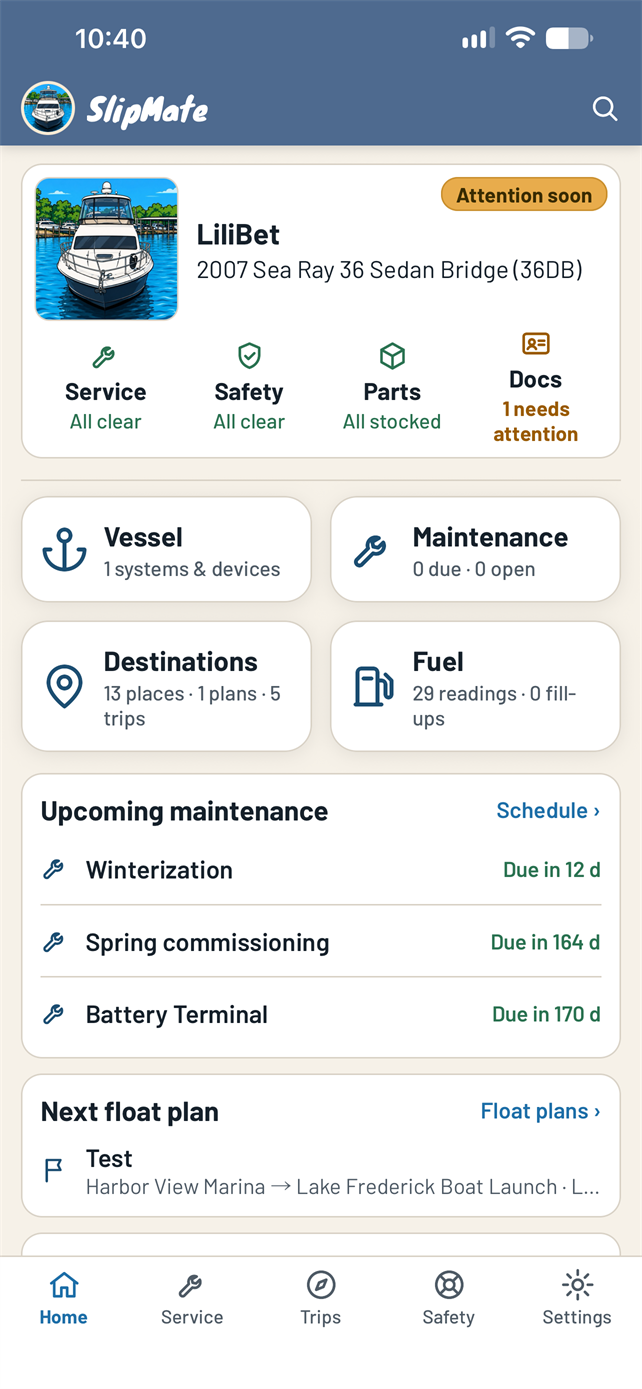
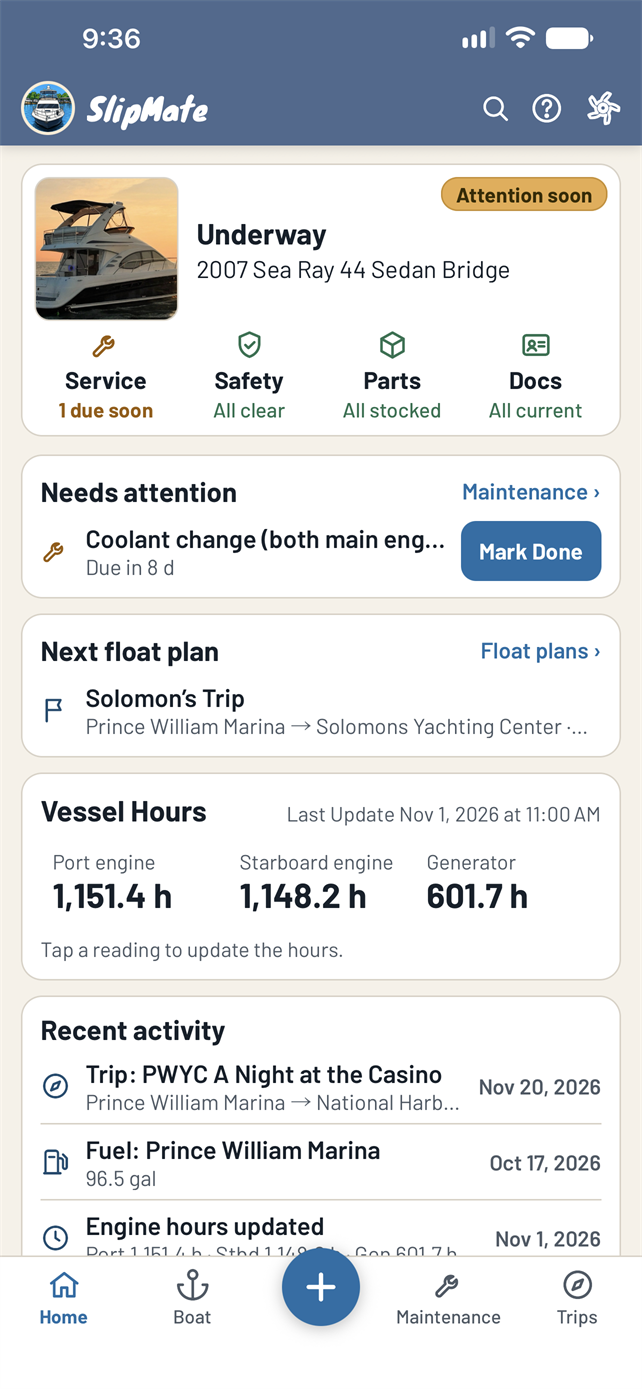
App Tour: rewritten for the new layout, with 12 new screenshots
Home, Boat, Maintenance and Trips sections match the current app
(Quick Log, ? help, Open work, Required Parts, Places). Screenshots
retaken on the phone; contact details covered in the float plan shot.

diff --git a/site/tour.html b/site/tour.html
@@ -267,7 +267,7 @@ footer .social svg .dot,footer .social svg .fill{fill:currentColor;stroke:none}
       <li><strong>Docs:</strong> insurance, registration and licenses that have expired or expire within 30 days.</li>
     </ul>
     <p>Green means all clear, yellow means coming up soon, and red means it needs you now. The verdict at the top sums it up: <strong>Ready</strong>, <strong>Attention Soon</strong> or <strong>Action Needed</strong>. Tap any signal to go straight to the items behind it, with the problems listed first.</p>
-    <p>It sits at the top of the Home screen and the Trips screen, updates itself as you log services, use parts and add new dates, and works with no signal. If you like, your phone can tell you when a signal turns yellow or red.</p>
+    <p>It sits in your boat card on Home and the Boat tab, and above your float plans and trip log, updates itself as you log services, use parts and add new dates, and works with no signal. If you like, your phone can tell you when a signal turns yellow or red.</p>
   </div>
   <figure class="readiness-demo">
     <div class="card ready" role="img" aria-label="Example: Boat Readiness: Action Needed. Service 2 due soon, Safety 1 expired, Parts all stocked, Docs all current.">
@@ -286,12 +286,13 @@ footer .social svg .dot,footer .social svg .fill{fill:currentColor;stroke:none}
 <section class="tour-sec" id="home">
   <div>
     <h2>Home: Everything at a glance</h2>
-    <p>Open SlipMate and <a href="#readiness">Boat Readiness</a> is right at the top, with the rest of your boat a tap away.</p>
+    <p>Open SlipMate and your boat card, with <a href="#readiness">Boat Readiness</a>, is right at the top. Below it is what needs doing today.</p>
     <ul>
-      <li>Your boat’s photo, name, year, make, model, HIN and registration number on one card.</li>
-      <li><strong>Upcoming Maintenance</strong>, your <strong>Next Float Plan</strong> and <strong>Recent Activity</strong> (last trip, last fill-up, last hours update) at a glance.</li>
-      <li>Four areas, Vessel, Maintenance, Destinations and Fuel, each with a live summary and a red count when something needs you.</li>
-      <li>Search everything on the boat from the magnifying glass: specs, engines, tasks, parts, logs and destinations.</li>
+      <li><strong>Needs Attention:</strong> services that are overdue or due soon, each with <strong>Mark Done</strong>. Nothing due? It says <strong>All Caught Up</strong>.</li>
+      <li>Your <strong>Next Float Plan</strong>, your engine hours (tap to update them) and <strong>Recent Activity</strong>.</li>
+      <li>Five buttons along the bottom: <strong>Home</strong>, <strong>Boat</strong>, <strong>+</strong>, <strong>Maintenance</strong> and <strong>Trips</strong>.</li>
+      <li>The <strong>+</strong> button is Quick Log: log fuel, update hours, log a service, note an open work item, add a receipt or a manual, start a float plan or log a trip, in two taps from anywhere.</li>
+      <li>Search everything on the boat from the magnifying glass, and tap the <strong>?</strong> on any page for help with that page.</li>
     </ul>
   </div>
   <figure class="shot"><img src="screenshots/tour-home.png" alt="The Home screen with the Boat Readiness card" loading="lazy"><figcaption>The Home screen with the Boat Readiness card</figcaption></figure>
@@ -304,7 +305,7 @@ footer .social svg .dot,footer .social svg .fill{fill:currentColor;stroke:none}
     <ul>
       <li>Your changes sync to your account automatically when you’re back in range.</li>
       <li>Sign in on a new phone and everything comes down again.</li>
-      <li>Reminders, reports and the Places Near Me list all work offline too.</li>
+      <li>Reminders, reports, the Places Near Me list and the help behind each page’s <strong>?</strong> all work offline too.</li>
       <li>Easy to read in bright sun or at night: choose <strong>Light</strong>, <strong>Dark</strong> or <strong>Auto</strong> (follows your phone’s setting) in Settings.</li>
     </ul>
   </div>
@@ -313,32 +314,31 @@ footer .social svg .dot,footer .social svg .fill{fill:currentColor;stroke:none}
 
 <section class="tour-sec" id="setup">
   <div>
-    <h2>Boat Setup builds your schedule for you</h2>
-    <p>Starting from a blank screen is hard. Boat Setup asks a few questions and gives you a maintenance schedule to start from.</p>
+    <h2>Set up in three short steps</h2>
+    <p>Starting from a blank screen is hard. Boat Setup takes three short steps, and everything but your boat’s make and model can wait.</p>
     <ul>
-      <li>Search hundreds of boat makes, then pick your model.</li>
-      <li>Tell it your water (salt, brackish or fresh) and your boating season, and it times Winterization and Spring Commissioning to match.</li>
-      <li>Pick your engines from a catalog of common marine engines, plus your generator, dinghy engine or kicker.</li>
-      <li>Answer yes or no for each system (AC, generator, thrusters, windlass and more) and review the services that go with it. Keep what you want, set your own intervals, skip the rest.</li>
+      <li><strong>Your Boat:</strong> search hundreds of boat makes and pick your model. Add the year, HIN, registration, your water and your season, which times Winterization and Spring Commissioning.</li>
+      <li><strong>Your Engines:</strong> if SlipMate knows your boat, it asks <strong>Are These Your Engines?</strong> Otherwise pick each one from a catalog of common marine engines, plus your dinghy engine or kicker and each engine’s transmission or drive.</li>
+      <li><strong>Bring In Your Data:</strong> fill your schedule, parts and gear the quick way. Import the spreadsheet you already keep, or let AI read a work order or your engine’s manual and suggest the services and parts.</li>
     </ul>
-    <p class="muted small">Suggested services and intervals are starting points. Always follow your manufacturer’s manual.</p>
+    <p class="muted small">AI suggestions are starting points you accept one by one. Always follow your manufacturer’s manual.</p>
   </div>
-  <figure class="shot"><img src="screenshots/tour-setup.png" alt="Boat Setup: choosing the services to keep" loading="lazy"><figcaption>Boat Setup: choosing the services to keep</figcaption></figure>
+  <figure class="shot"><img src="screenshots/tour-setup.png" alt="Boat Setup: your engines" loading="lazy"><figcaption>Boat Setup: your engines</figcaption></figure>
 </section>
 
 <section class="tour-sec flip" id="vessel">
   <div>
-    <h2>Your vessel, fully documented</h2>
-    <p>The spec sheet you’re always hunting for, always with you.</p>
+    <h2>Your boat, fully documented</h2>
+    <p>The spec sheet you’re always hunting for, always with you, on the <strong>Boat</strong> tab.</p>
     <ul>
-      <li><strong>Details:</strong> make and model, years, hull, HIN, registration, MMSI numbers, home port, LOA, beam, draft and more.</li>
-      <li><strong>Capacities:</strong> air draft, fuel, fresh water, holding, grey water, battery banks, anchor and rode, max persons.</li>
-      <li><strong>Engines:</strong> every engine and generator with serial numbers, horsepower, transmission, gear ratio and propeller.</li>
+      <li><strong>Details</strong> and <strong>Capacities:</strong> make and model, hull, HIN, registration, MMSI numbers, LOA, beam, draft, tanks, battery banks, anchor and rode. Or photograph your boat’s spec sheet and let AI fill them in.</li>
+      <li><strong>Engines</strong> and <strong>Drives:</strong> every engine, generator and transmission with serial numbers, horsepower, gear ratio and propeller. Repowered? The old engine keeps its history.</li>
       <li><strong>Systems</strong> and <strong>Electronics:</strong> what’s aboard, where it is, serial numbers, firmware versions and network IDs.</li>
+      <li><strong>Manuals:</strong> owner’s and service manuals as files, photos or links, ready offline. A document icon marks every item that has one, and AI can read a manual for its service intervals and part numbers.</li>
       <li><strong>Docs:</strong> insurance, registration, captain’s license and inspections, with a photo or PDF of each and the date it expires.</li>
     </ul>
   </div>
-  <figure class="shot"><img src="screenshots/tour-vessel.png" alt="Vessel details and capacities" loading="lazy"><figcaption>Vessel details and capacities</figcaption></figure>
+  <figure class="shot"><img src="screenshots/tour-vessel.png" alt="The Boat tab" loading="lazy"><figcaption>The Boat tab</figcaption></figure>
 </section>
 
 <section class="tour-sec" id="hours">
@@ -350,7 +350,7 @@ footer .social svg .dot,footer .social svg .fill{fill:currentColor;stroke:none}
       <li>on <strong>all propulsion engines</strong>, using whichever is highest,</li>
       <li>or by <strong>calendar only</strong>, every so many months.</li>
     </ul>
-    <p>A task can have both a months and an hours interval, so whichever comes first is what’s due. Generators, dinghy engines and kickers keep their own hours and their own services. One shared task can be split into a separate task for each engine with a tap.</p>
+    <p>A task can have both a months and an hours interval, so whichever comes first is what’s due. Generators, dinghy engines and kickers keep their own hours and their own services. One shared task can be split into a separate task for each engine with a tap. Guessed your hours when you started and the meter really shows less? Update Hours lets the real reading take over.</p>
   </div>
   <figure class="shot"><img src="screenshots/tour-hours.png" alt="Vessel Hours and the Update Hours box" loading="lazy"><figcaption>Vessel Hours and the Update Hours box</figcaption></figure>
 </section>
@@ -359,11 +359,11 @@ footer .social svg .dot,footer .social svg .fill{fill:currentColor;stroke:none}
   <div>
     <h2>Maintenance that keeps up with you</h2>
     <ul>
-      <li><strong>Scheduled:</strong> your services in the order they come due, overdue first, with next due and last completed on each card.</li>
+      <li><strong>Due:</strong> your services in the order they come due, overdue first, with next due and last completed on each card.</li>
       <li><strong>Mark Done</strong> logs a service as completed today at the current engine hours, and starts the next cycle.</li>
-      <li><strong>Open:</strong> the jobs you’ve found but not fixed yet, with how long each has been open.</li>
-      <li><strong>Completed:</strong> a dated service history with who did the work, notes, photos and the hours at service.</li>
-      <li><strong>Manuals:</strong> owner’s manuals, parts lists and surveys as files, photos or links, ready offline.</li>
+      <li><strong>Open:</strong> projects, and the things you notice that need fixing, outside your regular services.</li>
+      <li><strong>History:</strong> a dated service record with who did the work, notes, photos and the hours at service. Snap a receipt or work order and AI fills in the entry for you to check.</li>
+      <li><strong>Parts:</strong> the spares you keep aboard (see below).</li>
       <li>Optional phone reminders when a service comes due, even with SlipMate closed.</li>
     </ul>
   </div>
@@ -375,9 +375,10 @@ footer .social svg .dot,footer .social svg .fill{fill:currentColor;stroke:none}
     <h2>Never run out of the part you need</h2>
     <p>Keep a list of spare parts on hand: part number, where it’s stored, supplier, specification and a link to the product page. Set how many you want to keep aboard and SlipMate watches the count.</p>
     <ul>
+      <li>The list opens on the parts you want aboard, with any running short at the top.</li>
       <li>Parts that are low or out turn the Parts signal yellow or red on Home.</li>
       <li>Filter by component (Engine/s, Generator, Bilge Pumps and Float Switches, and more).</li>
-      <li>Boat Setup can add the usual parts for the services you keep.</li>
+      <li>Read a manual or a receipt with AI and the part numbers come in for you.</li>
     </ul>
   </div>
   <figure class="shot"><img src="screenshots/tour-parts.png" alt="Parts on hand with quantities and part numbers" loading="lazy"><figcaption>Parts on hand with quantities and part numbers</figcaption></figure>
@@ -413,14 +414,14 @@ footer .social svg .dot,footer .social svg .fill{fill:currentColor;stroke:none}
 
 <section class="tour-sec flip" id="destinations">
   <div>
-    <h2>Destinations and trips</h2>
+    <h2>Places and trips</h2>
     <ul>
-      <li><strong>Destinations:</strong> your marinas, anchorages, fuel docks and favorite waterfront restaurants, with position, VHF channel, depth, hours, dockage, rates, approach notes, a marina map and your own notes (slip number, dock hand, tips). Star your favorites.</li>
-      <li><strong>Find Places Near Me:</strong> download your state once and see nearby marinas, fuel docks, anchorages and ramps, nearest first, even with no signal. Add the ones you like to your destinations.</li>
+      <li><strong>Places:</strong> your marinas, anchorages, fuel docks and favorite waterfront restaurants, with position, VHF channel, depth, hours, dockage, rates, approach notes, a marina map and your own notes (slip number, dock hand, tips). Star your favorites.</li>
+      <li><strong>Find Places Near Me:</strong> download your state once and see nearby marinas, fuel docks, anchorages and ramps, nearest first, even with no signal. Add the ones you like to your places.</li>
       <li><strong>Trip log:</strong> where you went, when, how far, fuel added, who was aboard and the engine hours when you got back.</li>
     </ul>
   </div>
-  <figure class="shot"><img src="screenshots/tour-destinations.png" alt="Saved destinations and Find Places Near Me" loading="lazy"><figcaption>Saved destinations and Find Places Near Me</figcaption></figure>
+  <figure class="shot"><img src="screenshots/tour-destinations.png" alt="Saved places and Find Places Near Me" loading="lazy"><figcaption>Saved places and Find Places Near Me</figcaption></figure>
 </section>
 
 <section class="tour-sec" id="fuel">

diff --git a/pages/tour.html b/pages/tour.html
@@ -27,7 +27,7 @@
       <li><strong>Docs:</strong> insurance, registration and licenses that have expired or expire within 30 days.</li>
     </ul>
     <p>Green means all clear, yellow means coming up soon, and red means it needs you now. The verdict at the top sums it up: <strong>Ready</strong>, <strong>Attention Soon</strong> or <strong>Action Needed</strong>. Tap any signal to go straight to the items behind it, with the problems listed first.</p>
-    <p>It sits at the top of the Home screen and the Trips screen, updates itself as you log services, use parts and add new dates, and works with no signal. If you like, your phone can tell you when a signal turns yellow or red.</p>
+    <p>It sits in your boat card on Home and the Boat tab, and above your float plans and trip log, updates itself as you log services, use parts and add new dates, and works with no signal. If you like, your phone can tell you when a signal turns yellow or red.</p>
   </div>
   <figure class="readiness-demo">
     <div class="card ready" role="img" aria-label="Example: Boat Readiness: Action Needed. Service 2 due soon, Safety 1 expired, Parts all stocked, Docs all current.">
@@ -46,12 +46,13 @@
 <section class="tour-sec" id="home">
   <div>
     <h2>Home: Everything at a glance</h2>
-    <p>Open SlipMate and <a href="#readiness">Boat Readiness</a> is right at the top, with the rest of your boat a tap away.</p>
+    <p>Open SlipMate and your boat card, with <a href="#readiness">Boat Readiness</a>, is right at the top. Below it is what needs doing today.</p>
     <ul>
-      <li>Your boat’s photo, name, year, make, model, HIN and registration number on one card.</li>
-      <li><strong>Upcoming Maintenance</strong>, your <strong>Next Float Plan</strong> and <strong>Recent Activity</strong> (last trip, last fill-up, last hours update) at a glance.</li>
-      <li>Four areas, Vessel, Maintenance, Destinations and Fuel, each with a live summary and a red count when something needs you.</li>
-      <li>Search everything on the boat from the magnifying glass: specs, engines, tasks, parts, logs and destinations.</li>
+      <li><strong>Needs Attention:</strong> services that are overdue or due soon, each with <strong>Mark Done</strong>. Nothing due? It says <strong>All Caught Up</strong>.</li>
+      <li>Your <strong>Next Float Plan</strong>, your engine hours (tap to update them) and <strong>Recent Activity</strong>.</li>
+      <li>Five buttons along the bottom: <strong>Home</strong>, <strong>Boat</strong>, <strong>+</strong>, <strong>Maintenance</strong> and <strong>Trips</strong>.</li>
+      <li>The <strong>+</strong> button is Quick Log: log fuel, update hours, log a service, note an open work item, add a receipt or a manual, start a float plan or log a trip, in two taps from anywhere.</li>
+      <li>Search everything on the boat from the magnifying glass, and tap the <strong>?</strong> on any page for help with that page.</li>
     </ul>
   </div>
   {{shot:tour-home|The Home screen with the Boat Readiness card}}
@@ -64,7 +65,7 @@
     <ul>
       <li>Your changes sync to your account automatically when you’re back in range.</li>
       <li>Sign in on a new phone and everything comes down again.</li>
-      <li>Reminders, reports and the Places Near Me list all work offline too.</li>
+      <li>Reminders, reports, the Places Near Me list and the help behind each page’s <strong>?</strong> all work offline too.</li>
       <li>Easy to read in bright sun or at night: choose <strong>Light</strong>, <strong>Dark</strong> or <strong>Auto</strong> (follows your phone’s setting) in Settings.</li>
     </ul>
   </div>
@@ -73,32 +74,31 @@
 
 <section class="tour-sec" id="setup">
   <div>
-    <h2>Boat Setup builds your schedule for you</h2>
-    <p>Starting from a blank screen is hard. Boat Setup asks a few questions and gives you a maintenance schedule to start from.</p>
+    <h2>Set up in three short steps</h2>
+    <p>Starting from a blank screen is hard. Boat Setup takes three short steps, and everything but your boat’s make and model can wait.</p>
     <ul>
-      <li>Search hundreds of boat makes, then pick your model.</li>
-      <li>Tell it your water (salt, brackish or fresh) and your boating season, and it times Winterization and Spring Commissioning to match.</li>
-      <li>Pick your engines from a catalog of common marine engines, plus your generator, dinghy engine or kicker.</li>
-      <li>Answer yes or no for each system (AC, generator, thrusters, windlass and more) and review the services that go with it. Keep what you want, set your own intervals, skip the rest.</li>
+      <li><strong>Your Boat:</strong> search hundreds of boat makes and pick your model. Add the year, HIN, registration, your water and your season, which times Winterization and Spring Commissioning.</li>
+      <li><strong>Your Engines:</strong> if SlipMate knows your boat, it asks <strong>Are These Your Engines?</strong> Otherwise pick each one from a catalog of common marine engines, plus your dinghy engine or kicker and each engine’s transmission or drive.</li>
+      <li><strong>Bring In Your Data:</strong> fill your schedule, parts and gear the quick way. Import the spreadsheet you already keep, or let AI read a work order or your engine’s manual and suggest the services and parts.</li>
     </ul>
-    <p class="muted small">Suggested services and intervals are starting points. Always follow your manufacturer’s manual.</p>
+    <p class="muted small">AI suggestions are starting points you accept one by one. Always follow your manufacturer’s manual.</p>
   </div>
-  {{shot:tour-setup|Boat Setup: choosing the services to keep}}
+  {{shot:tour-setup|Boat Setup: your engines}}
 </section>
 
 <section class="tour-sec flip" id="vessel">
   <div>
-    <h2>Your vessel, fully documented</h2>
-    <p>The spec sheet you’re always hunting for, always with you.</p>
+    <h2>Your boat, fully documented</h2>
+    <p>The spec sheet you’re always hunting for, always with you, on the <strong>Boat</strong> tab.</p>
     <ul>
-      <li><strong>Details:</strong> make and model, years, hull, HIN, registration, MMSI numbers, home port, LOA, beam, draft and more.</li>
-      <li><strong>Capacities:</strong> air draft, fuel, fresh water, holding, grey water, battery banks, anchor and rode, max persons.</li>
-      <li><strong>Engines:</strong> every engine and generator with serial numbers, horsepower, transmission, gear ratio and propeller.</li>
+      <li><strong>Details</strong> and <strong>Capacities:</strong> make and model, hull, HIN, registration, MMSI numbers, LOA, beam, draft, tanks, battery banks, anchor and rode. Or photograph your boat’s spec sheet and let AI fill them in.</li>
+      <li><strong>Engines</strong> and <strong>Drives:</strong> every engine, generator and transmission with serial numbers, horsepower, gear ratio and propeller. Repowered? The old engine keeps its history.</li>
       <li><strong>Systems</strong> and <strong>Electronics:</strong> what’s aboard, where it is, serial numbers, firmware versions and network IDs.</li>
+      <li><strong>Manuals:</strong> owner’s and service manuals as files, photos or links, ready offline. A document icon marks every item that has one, and AI can read a manual for its service intervals and part numbers.</li>
       <li><strong>Docs:</strong> insurance, registration, captain’s license and inspections, with a photo or PDF of each and the date it expires.</li>
     </ul>
   </div>
-  {{shot:tour-vessel|Vessel details and capacities}}
+  {{shot:tour-vessel|The Boat tab}}
 </section>
 
 <section class="tour-sec" id="hours">
@@ -110,7 +110,7 @@
       <li>on <strong>all propulsion engines</strong>, using whichever is highest,</li>
       <li>or by <strong>calendar only</strong>, every so many months.</li>
     </ul>
-    <p>A task can have both a months and an hours interval, so whichever comes first is what’s due. Generators, dinghy engines and kickers keep their own hours and their own services. One shared task can be split into a separate task for each engine with a tap.</p>
+    <p>A task can have both a months and an hours interval, so whichever comes first is what’s due. Generators, dinghy engines and kickers keep their own hours and their own services. One shared task can be split into a separate task for each engine with a tap. Guessed your hours when you started and the meter really shows less? Update Hours lets the real reading take over.</p>
   </div>
   {{shot:tour-hours|Vessel Hours and the Update Hours box}}
 </section>
@@ -119,11 +119,11 @@
   <div>
     <h2>Maintenance that keeps up with you</h2>
     <ul>
-      <li><strong>Scheduled:</strong> your services in the order they come due, overdue first, with next due and last completed on each card.</li>
+      <li><strong>Due:</strong> your services in the order they come due, overdue first, with next due and last completed on each card.</li>
       <li><strong>Mark Done</strong> logs a service as completed today at the current engine hours, and starts the next cycle.</li>
-      <li><strong>Open:</strong> the jobs you’ve found but not fixed yet, with how long each has been open.</li>
-      <li><strong>Completed:</strong> a dated service history with who did the work, notes, photos and the hours at service.</li>
-      <li><strong>Manuals:</strong> owner’s manuals, parts lists and surveys as files, photos or links, ready offline.</li>
+      <li><strong>Open:</strong> projects, and the things you notice that need fixing, outside your regular services.</li>
+      <li><strong>History:</strong> a dated service record with who did the work, notes, photos and the hours at service. Snap a receipt or work order and AI fills in the entry for you to check.</li>
+      <li><strong>Parts:</strong> the spares you keep aboard (see below).</li>
       <li>Optional phone reminders when a service comes due, even with SlipMate closed.</li>
     </ul>
   </div>
@@ -135,9 +135,10 @@
     <h2>Never run out of the part you need</h2>
     <p>Keep a list of spare parts on hand: part number, where it’s stored, supplier, specification and a link to the product page. Set how many you want to keep aboard and SlipMate watches the count.</p>
     <ul>
+      <li>The list opens on the parts you want aboard, with any running short at the top.</li>
       <li>Parts that are low or out turn the Parts signal yellow or red on Home.</li>
       <li>Filter by component (Engine/s, Generator, Bilge Pumps and Float Switches, and more).</li>
-      <li>Boat Setup can add the usual parts for the services you keep.</li>
+      <li>Read a manual or a receipt with AI and the part numbers come in for you.</li>
     </ul>
   </div>
   {{shot:tour-parts|Parts on hand with quantities and part numbers}}
@@ -173,14 +174,14 @@
 
 <section class="tour-sec flip" id="destinations">
   <div>
-    <h2>Destinations and trips</h2>
+    <h2>Places and trips</h2>
     <ul>
-      <li><strong>Destinations:</strong> your marinas, anchorages, fuel docks and favorite waterfront restaurants, with position, VHF channel, depth, hours, dockage, rates, approach notes, a marina map and your own notes (slip number, dock hand, tips). Star your favorites.</li>
-      <li><strong>Find Places Near Me:</strong> download your state once and see nearby marinas, fuel docks, anchorages and ramps, nearest first, even with no signal. Add the ones you like to your destinations.</li>
+      <li><strong>Places:</strong> your marinas, anchorages, fuel docks and favorite waterfront restaurants, with position, VHF channel, depth, hours, dockage, rates, approach notes, a marina map and your own notes (slip number, dock hand, tips). Star your favorites.</li>
+      <li><strong>Find Places Near Me:</strong> download your state once and see nearby marinas, fuel docks, anchorages and ramps, nearest first, even with no signal. Add the ones you like to your places.</li>
       <li><strong>Trip log:</strong> where you went, when, how far, fuel added, who was aboard and the engine hours when you got back.</li>
     </ul>
   </div>
-  {{shot:tour-destinations|Saved destinations and Find Places Near Me}}
+  {{shot:tour-destinations|Saved places and Find Places Near Me}}
 </section>
 
 <section class="tour-sec" id="fuel">
